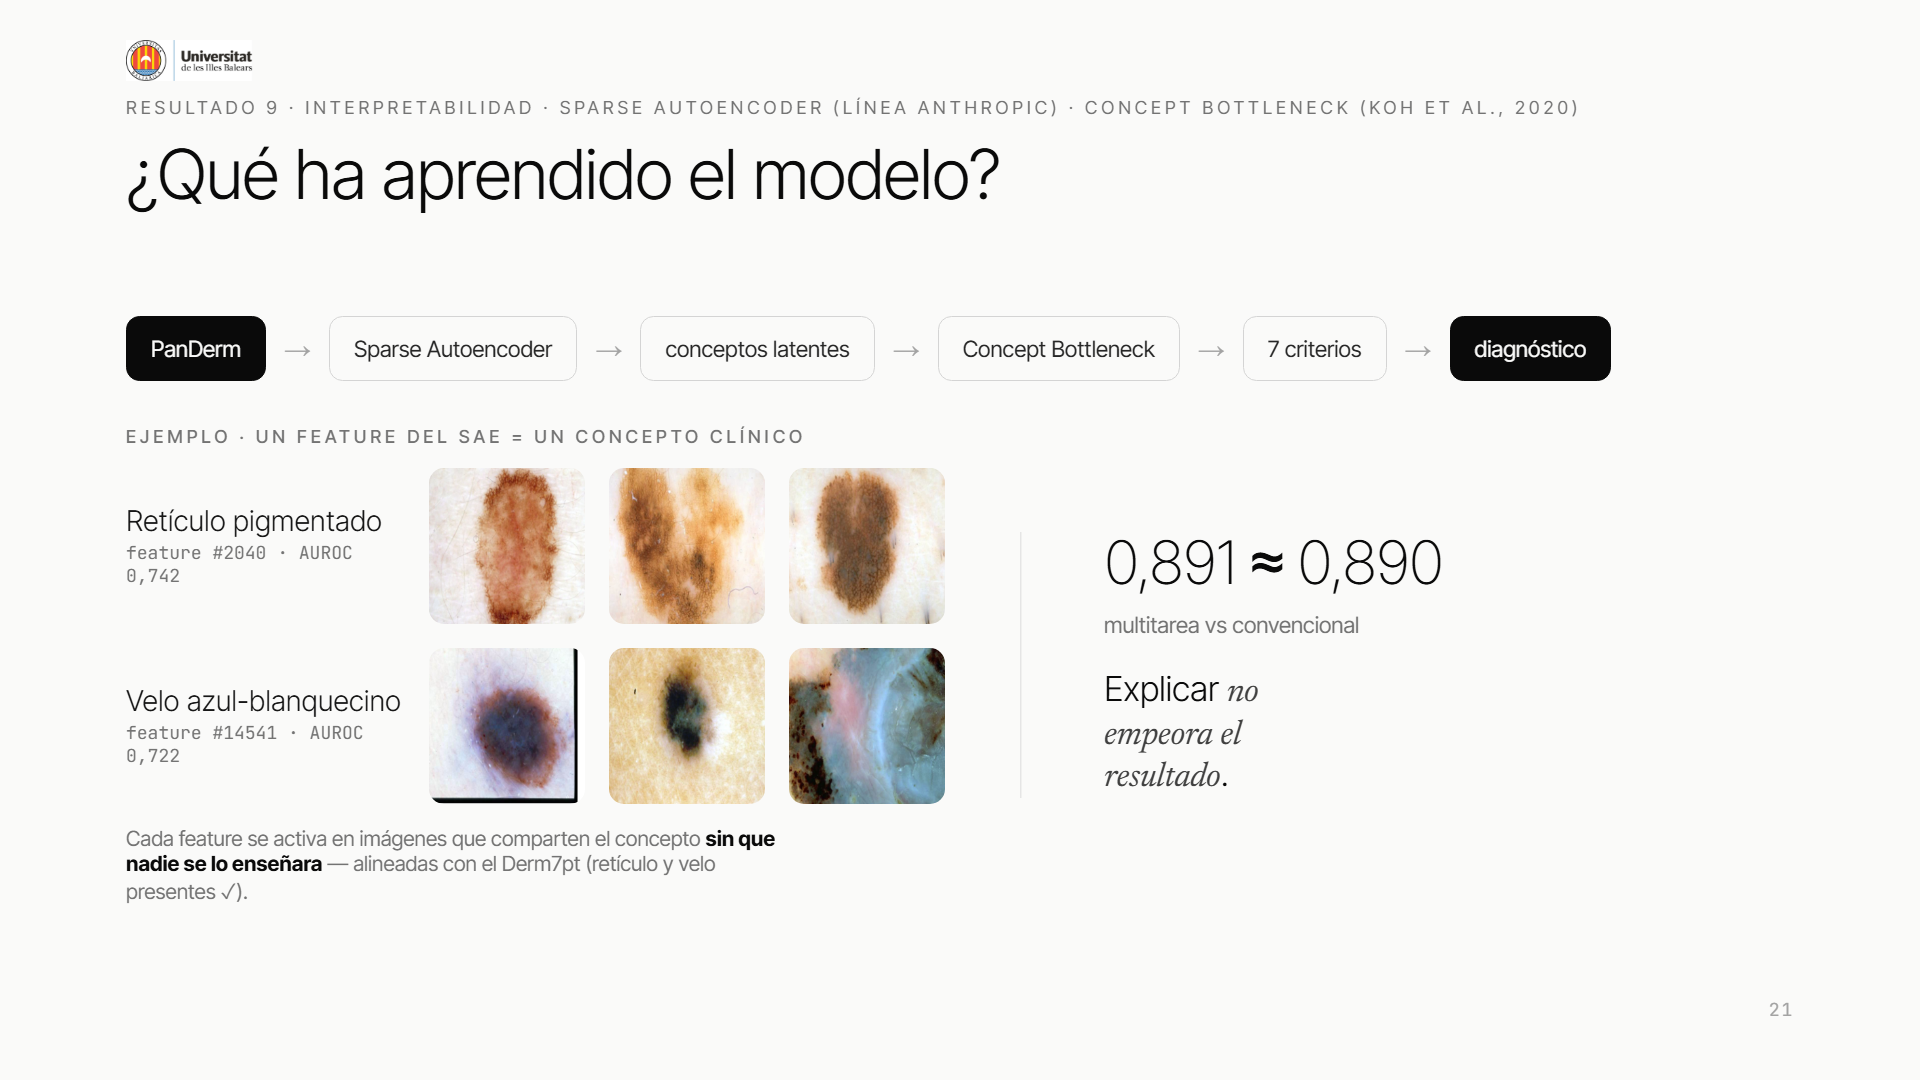
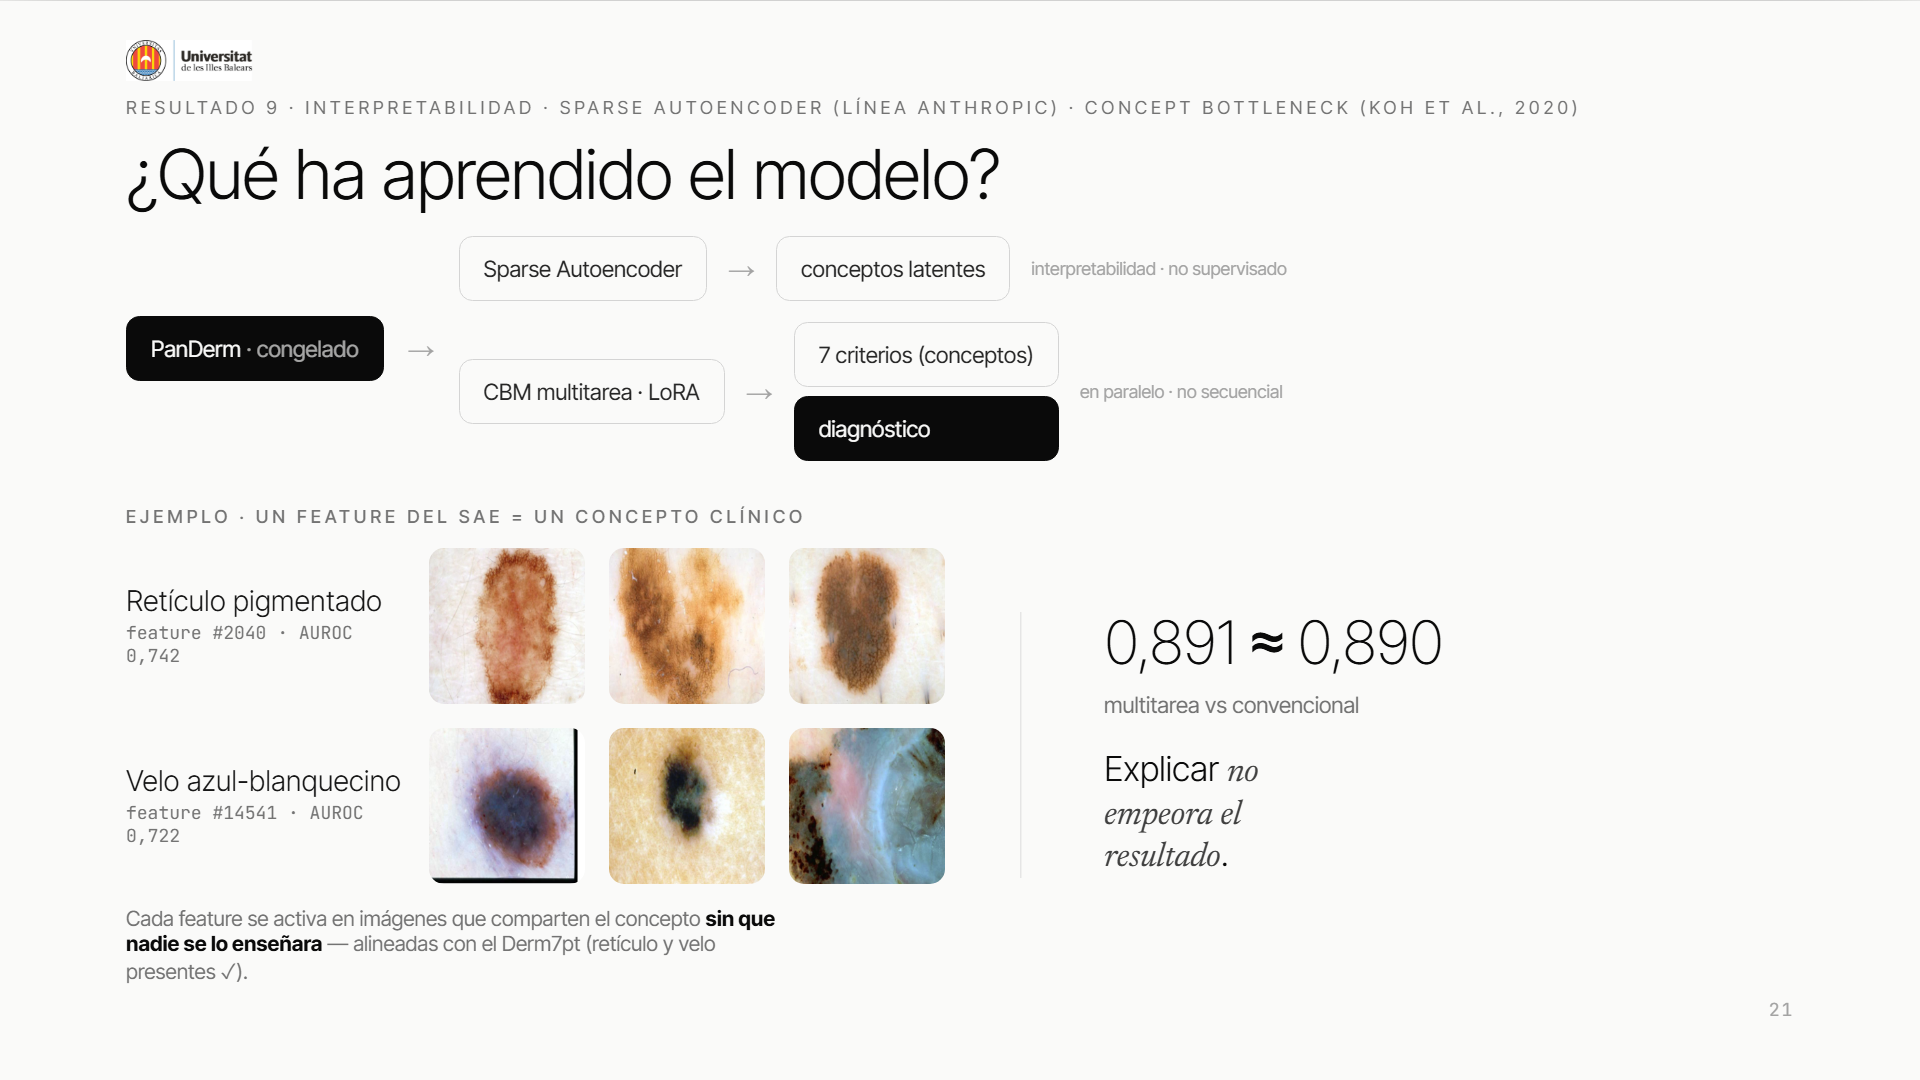
deck slide21: diagrama honesto de interpretabilidad (SAE interpretabilidad y CBM multitarea en paralelo, no cadena secuencial que pase el diagnostico por el SAE)

diff --git a/deck/index.html b/deck/index.html
@@ -820,13 +820,23 @@
     <div class="head"><div class="kicker">Resultado 9 · Interpretabilidad · Sparse Autoencoder (línea Anthropic) · Concept Bottleneck (Koh et al., 2020)</div>
       <h2>¿Qué ha aprendido el modelo?</h2></div>
     <div class="body" style="flex-direction:column; align-items:stretch; justify-content:center; gap:30px">
-      <div class="chain">
-        <span class="node dark">PanDerm</span><span class="arr">→</span>
-        <span class="node">Sparse Autoencoder</span><span class="arr">→</span>
-        <span class="node">conceptos latentes</span><span class="arr">→</span>
-        <span class="node">Concept Bottleneck</span><span class="arr">→</span>
-        <span class="node">7 criterios</span><span class="arr">→</span>
-        <span class="node dark">diagnóstico</span>
+      <div class="chain" style="align-items:center; gap:16px">
+        <span class="node dark">PanDerm<span style="font-weight:400; opacity:.65"> · congelado</span></span><span class="arr">→</span>
+        <div style="display:flex; flex-direction:column; gap:14px">
+          <div style="display:flex; align-items:center; gap:14px">
+            <span class="node">Sparse Autoencoder</span><span class="arr">→</span>
+            <span class="node">conceptos latentes</span>
+            <span class="muted" style="font-size:12px; color:var(--ink400)">interpretabilidad · no supervisado</span>
+          </div>
+          <div style="display:flex; align-items:center; gap:14px">
+            <span class="node">CBM multitarea · LoRA</span><span class="arr">→</span>
+            <div style="display:flex; flex-direction:column; gap:6px">
+              <span class="node">7 criterios (conceptos)</span>
+              <span class="node dark">diagnóstico</span>
+            </div>
+            <span class="muted" style="font-size:12px; color:var(--ink400)">en paralelo · no secuencial</span>
+          </div>
+        </div>
       </div>
       <div style="display:flex; gap:50px; align-items:center">
         <div>
